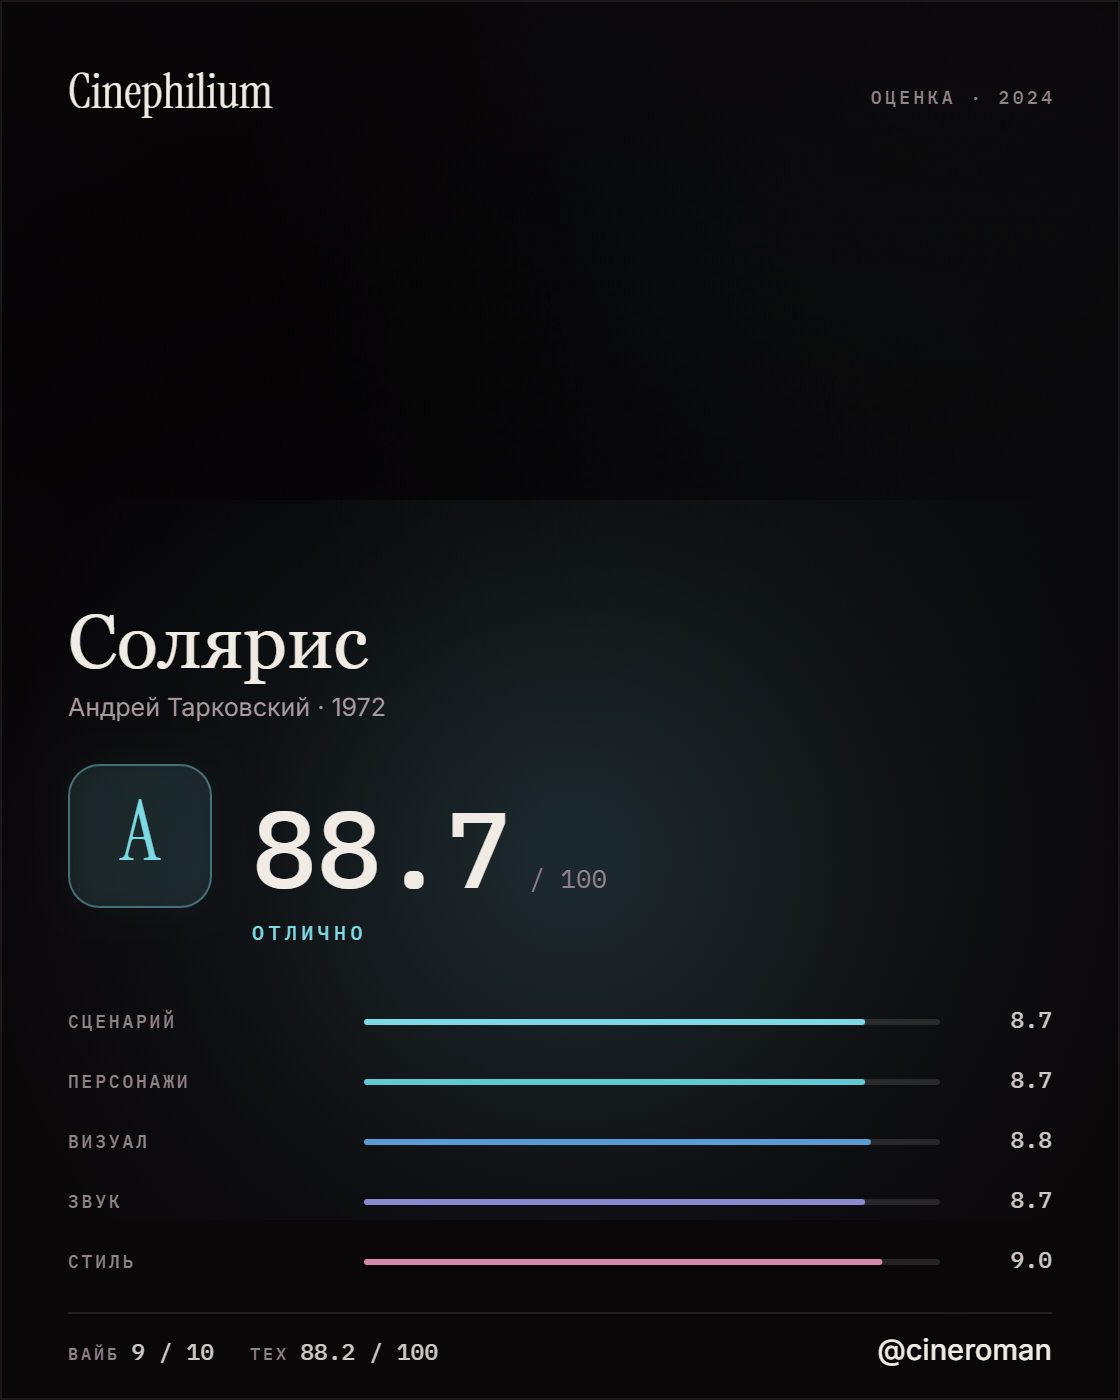
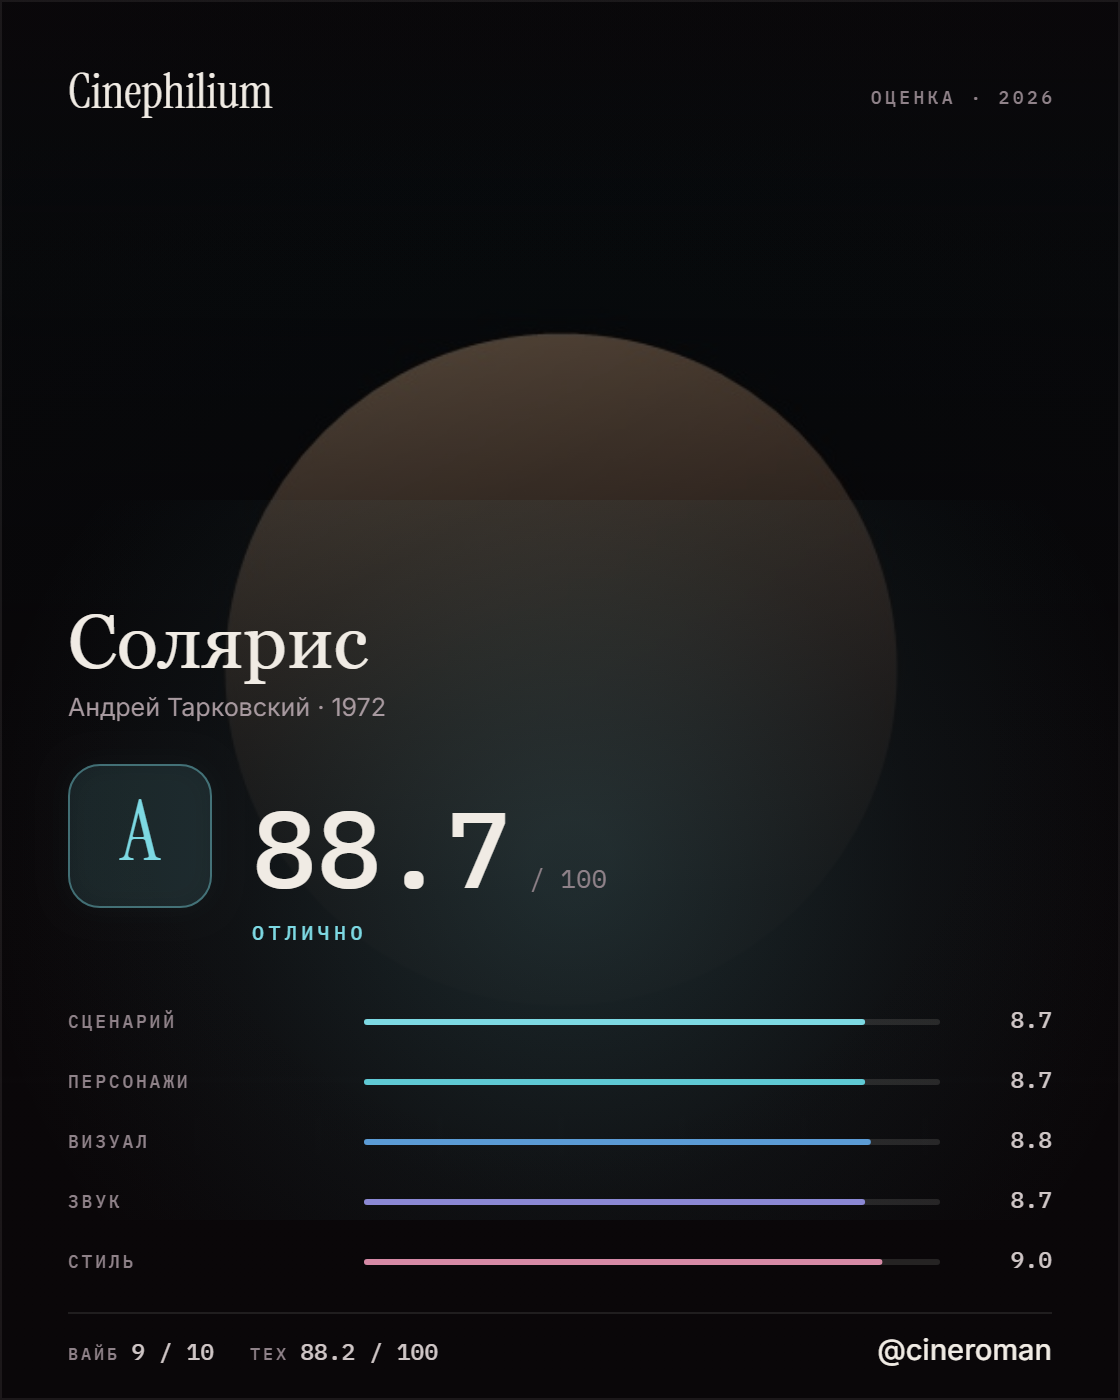
feat: постер в карточке оценки и вход из панели
- фон карточки — постер фильма (backdrop запасной), затемнение и скрим
- «Карточка оценки» доступна из панели для сохранённых full-оценок
- документация 4.12.0: AGENT_CONTEXT, DESIGN_HANDOFF, CHANGELOG
- скриншоты share-card-1120/390 обновлены

Changed region(s): [[0.1875, 0.215, 0.8125, 0.4914]]

diff --git a/src/pages/FilmPage/components/ShareCard/shareCardRenderer.js b/src/pages/FilmPage/components/ShareCard/shareCardRenderer.js
@@ -85,7 +85,9 @@ export function buildShareCardModel({ film, rating, payload, user }) {
   if (film?.director) bylineParts.push(film.director);
   if (film?.year) bylineParts.push(String(film.year));
 
-  const backdropSource = film?.backdrop || film?.poster || '';
+  // DECISION: на фоне — постер (узнаваемая афиша), а не широкий backdrop:
+  // в 4:5 он читается как обложка, а backdrop остаётся запасным вариантом.
+  const backdropSource = film?.poster || film?.backdrop || '';
 
   return {
     title: film?.title || 'Без названия',
@@ -258,7 +260,7 @@ function paintBackground(ctx, image, gradeColor) {
   if (image) {
     ctx.save();
     if ('filter' in ctx) {
-      ctx.filter = 'saturate(0.6) brightness(0.7) contrast(1.03)';
+      ctx.filter = 'saturate(0.62) brightness(0.62) contrast(1.04)';
     }
     drawCover(ctx, image);
     ctx.restore();
@@ -271,14 +273,15 @@ function paintBackground(ctx, image, gradeColor) {
     ctx.fillRect(0, 0, CARD_WIDTH, CARD_HEIGHT);
   }
 
-  // Основной затемняющий градиент: верх фото виден, низ уходит в void.
+  // Основной затемняющий градиент: верх постера виден, середина и низ уходят
+  // в void — под текстом нужен запас контраста даже для светлой афиши.
   const scrim = ctx.createLinearGradient(0, 0, 0, CARD_HEIGHT);
-  scrim.addColorStop(0, 'rgba(10, 7, 9, 0.42)');
-  scrim.addColorStop(0.12, 'rgba(10, 7, 9, 0.18)');
-  scrim.addColorStop(0.34, 'rgba(10, 7, 9, 0.42)');
-  scrim.addColorStop(0.52, 'rgba(10, 7, 9, 0.74)');
-  scrim.addColorStop(0.64, 'rgba(10, 7, 9, 0.92)');
-  scrim.addColorStop(0.78, 'rgba(10, 7, 9, 0.98)');
+  scrim.addColorStop(0, 'rgba(10, 7, 9, 0.55)');
+  scrim.addColorStop(0.12, 'rgba(10, 7, 9, 0.2)');
+  scrim.addColorStop(0.34, 'rgba(10, 7, 9, 0.55)');
+  scrim.addColorStop(0.52, 'rgba(10, 7, 9, 0.82)');
+  scrim.addColorStop(0.64, 'rgba(10, 7, 9, 0.95)');
+  scrim.addColorStop(0.78, 'rgba(10, 7, 9, 0.99)');
   scrim.addColorStop(1, VOID);
   ctx.fillStyle = scrim;
   ctx.fillRect(0, 0, CARD_WIDTH, CARD_HEIGHT);

diff --git a/src/pages/FilmPage/components/ShareCard/ShareCardModal.jsx b/src/pages/FilmPage/components/ShareCard/ShareCardModal.jsx
@@ -9,7 +9,14 @@ import './ShareCardModal.css';
  * скриншота DOM»: превью и файл — один и тот же data URL. Пока картинка
  * рендерится, показываем скелетон того же размера, чтобы модалка не прыгала.
  */
-export default function ShareCardModal({ film, rating, payload, currentUser, onClose }) {
+export default function ShareCardModal({
+  film,
+  rating,
+  payload,
+  currentUser,
+  justSaved = false,
+  onClose
+}) {
   const [dataUrl, setDataUrl] = useState('');
   const [failed, setFailed] = useState(false);
   const closeRef = useRef(null);
@@ -67,8 +74,10 @@ export default function ShareCardModal({ film, rating, payload, currentUser, onC
         onClick={event => event.stopPropagation()}
       >
         <div className="share-modal__head">
-          <p className="share-modal__kicker">Оценка сохранена</p>
-          <h2 className="share-modal__title" id="shareCardTitle">Карточка готова</h2>
+          <p className="share-modal__kicker">{justSaved ? 'Оценка сохранена' : 'Ваша оценка'}</p>
+          <h2 className="share-modal__title" id="shareCardTitle">
+            {justSaved ? 'Карточка готова' : 'Карточка оценки'}
+          </h2>
           <p className="share-modal__sub">Скачайте PNG и поделитесь впечатлением о фильме.</p>
         </div>
 

diff --git a/src/pages/FilmPage/components/RatingSection/RatingSection.jsx b/src/pages/FilmPage/components/RatingSection/RatingSection.jsx
@@ -78,7 +78,14 @@ export default function RatingSection({
     reloadUsers?.();
     // DECISION: карточка открывается после закрытия модалки оценки (см. эффект
     // ниже), иначе два оверлея на мгновение существуют одновременно.
-    setPendingShare({ rating, payload });
+    setPendingShare({ rating, payload, justSaved: true });
+  };
+
+  // DECISION: карточку можно пересобрать и для уже сохранённой full-оценки —
+  // вход в панели оценки, а не только сразу после сохранения.
+  const openShareCard = () => {
+    if (!userRating || (userRating.completeness || 'full') !== 'full') return;
+    setShareCard({ rating: userRating, payload: null, justSaved: false });
   };
 
   useEffect(() => {
@@ -111,6 +118,7 @@ export default function RatingSection({
         vibeLocked={vibeLocked}
         onCancelVibe={vibe.cancelVibe}
         onOpenCriteria={openCriteria}
+        onShareCard={openShareCard}
         onRequireAuth={requireAuth}
       />
 
@@ -129,6 +137,7 @@ export default function RatingSection({
           film={film}
           rating={shareCard.rating}
           payload={shareCard.payload}
+          justSaved={Boolean(shareCard.justSaved)}
           currentUser={currentUser}
           onClose={() => setShareCard(null)}
         />

diff --git a/src/pages/FilmPage/components/RatingPanel/RatingPanel.jsx b/src/pages/FilmPage/components/RatingPanel/RatingPanel.jsx
@@ -59,10 +59,11 @@ export default function RatingPanel({
   vibeError,
   vibeLocked,
   onOpenCriteria,
+  onShareCard,
   onRequireAuth,
   onCancelVibe
 }) {
-  const isFull = (userRating?.completeness || '') === 'full';
+  const isFull = Boolean(userRating) && (userRating.completeness || 'full') === 'full';
   const hasVibe = Number(vibe) >= 1;
   const hasTechnical = isFull && Number(userRating?.technicalScore) > 0;
 
@@ -185,9 +186,14 @@ export default function RatingPanel({
         )}
 
         {isFull ? (
-          <button type="button" className="rp-cta rp-cta--link" onClick={onOpenCriteria}>
-            Изменить критерии →
-          </button>
+          <div className="rp-actions">
+            <button type="button" className="rp-cta rp-cta--link" onClick={onOpenCriteria}>
+              Изменить критерии →
+            </button>
+            <button type="button" className="rp-cta rp-cta--link" onClick={onShareCard}>
+              Карточка оценки →
+            </button>
+          </div>
         ) : (
           <button
             type="button" className={`rp-cta ${hasVibe ? 'rp-cta--accent' : ''}`}

diff --git a/src/pages/FilmPage/components/RatingPanel/RatingPanel.css b/src/pages/FilmPage/components/RatingPanel/RatingPanel.css
@@ -410,6 +410,15 @@
   color: var(--ink);
 }
 
+/* Full: две ссылки под спектром — изменить критерии и карточка оценки. */
+.rp-actions {
+  display: flex;
+  flex-direction: column;
+  align-items: flex-start;
+  gap: 8px;
+  margin-top: 16px;
+}
+
 .rp-formula {
   min-height: 38px;
   margin-top: 14px;

diff --git a/CHANGELOG.md b/CHANGELOG.md
@@ -1,6 +1,50 @@
-# Changelog — Cinephilium Frontend 4.11.0
+# Changelog — Cinephilium Frontend 4.12.0
 
 **Дата и время среза: 14.11.2026 (Europe/Moscow, UTC+03:00)**
+
+## 4.12.0 — постер в карточке и постоянный вход для сохранённых оценок
+
+**Дата: 14.11.2026.**
+
+### Смысл
+
+Карточка оценки выглядела как градиентная заглушка, хотя у фильма есть постер.
+Кроме того, скачать её можно было только сразу после сохранения. В 4.12 фон
+карточки — постер фильма (как в референсе), а вход в карточку остаётся у любой
+сохранённой полной оценки: из панели оценки рядом с «Изменить критерии».
+
+### Что изменено
+
+- `shareCardRenderer.js`: фон — `film.poster`, запасной `film.backdrop`;
+  затемнение `brightness(.62)`, скрим от 0.55 сверху до VOID внизу, верхний
+  фокус кропа 0.28. Горизонтальный `textGuard` не используется — давал
+  видимую границу.
+- `RatingPanel.jsx/.css`: проп `onShareCard`; у full-оценки `.rp-actions` с
+  двумя ссылками — «Изменить критерии →» и «Карточка оценки →».
+- `RatingSection.jsx`: `openShareCard()` для сохранённой оценки; после save
+  карточка открывается с `justSaved: true`, из панели — `justSaved: false`.
+- `ShareCardModal.jsx`: заголовок зависит от входа — «Карточка готова» после
+  сохранения / «Карточка оценки» для сохранённой.
+- Старые full-оценки без поля `completeness` считаются полными:
+  `(completeness || 'full') === 'full'`.
+
+### Зафиксированные решения
+
+- Постер первичнее backdrop: он узнаваемее в 4:5, backdrop — запасной.
+- В карточку не подставляются фейковые фильм/ник; ник — только
+  `currentUser.nickname`.
+- Новых зависимостей и бэкенд-правок не нужно: постер идёт через существующий
+  `/api/tmdb-image` (CORS покрыт глобальным middleware), fallback без фото и
+  при tainted canvas остаётся.
+- Карточка по-прежнему только для full; vibe-only её не вызывает.
+
+### Проверка
+
+`npm run build` — Compiled successfully, ≈133.28 kB JS / 23.11 kB CSS gzip.
+Скриншоты: `screenshots/film-redesign/share-card-1120.png` (постер),
+`share-card-390.png`; панель с двумя ссылками проверена на fixture с
+full-оценкой. Живой сценарий POST /ratings локально не прогнан — бэкенд и
+авторизация недоступны.
 
 ## 4.11.0 — форма оценки, кастомные списки, шеринг-карточка и тач-фокус
 
@@ -48,7 +92,7 @@
 
 `npm run build` — Compiled successfully, ≈133.15 kB JS / 23.1 kB CSS gzip.
 Скриншоты: `screenshots/film-redesign/rating-form-1440.png`,
-`rating-form-390.png`, `share-card-1120.png`, `share-card-1440.png`,
+`rating-form-390.png`, `share-card-1120.png`,
 `share-card-390.png`. CDP 390×844 с touch: тап по селекту без синего кольца,
 список открывается. Живой сценарий сохранения (POST /ratings) локально не
 прогнан — бэкенд и авторизация недоступны.

diff --git a/DESIGN_HANDOFF.md b/DESIGN_HANDOFF.md
@@ -369,14 +369,16 @@ dt mono 9.5/.11em uppercase ink-faint, dd Inter 13.5/1.55.
 
 ### Шеринг-карточка
 
-- `ShareCardModal` открывается после full-save: `.share-modal` 640,
-  max-height 92vh, шапка, `.share-card-frame` 4:5, футер «Закрыть» /
-  «Скачать PNG».
+- `ShareCardModal` открывается после full-save и из панели оценки (у
+  сохранённой full-оценки в `.rp-actions` — «Изменить критерии» и «Карточка
+  оценки»): `.share-modal` 640, max-height 92vh, шапка, `.share-card-frame`
+  4:5, футер «Закрыть» / «Скачать PNG».
 - Canvas 560×700 @2× (1120×1400): бренд Instrument Serif 24 без трёх кружков,
   eyebrow mono 9, название 38/34/30 (кириллица — Georgia, как h1 на сайте),
   byline, плитка грейда 72, балл 54, 5 блоков, футер с вайб/тех и ником 14.5.
-- Фон — backdrop через `getPosterUrl(..., 'w780')` + скрим; без фото —
-  градиент; tainted canvas — перерисовка без фото.
+- Фон — постер (`film.poster`, запасной `film.backdrop`) через
+  `getPosterUrl(..., 'w780')`, фильтр `brightness(.62)`, скрим от 0.55 сверху
+  до VOID внизу; без фото — градиент; tainted canvas — перерисовка без фото.
 
 ### Тач и фокус
 
@@ -433,7 +435,7 @@ dt mono 9.5/.11em uppercase ink-faint, dd Inter 13.5/1.55.
 - Показывать на тач системный focus-ring/синюю подсветку и включать
   overscroll-свечение внутри модалок/списков.
 - Делать шеринг-карточку для vibe-only или подставлять в неё фейковые
-  фильм/ник.
+  фильм/ник; подменять постер на «похожую» картинку.
 
 ---
 
@@ -453,11 +455,11 @@ dt mono 9.5/.11em uppercase ink-faint, dd Inter 13.5/1.55.
 ## 14. Проверка и артефакты
 
 - `npm run build` — `Compiled successfully`.
-- CSS bundle ≈ 23.1 kB gzip, JS ≈ 133 kB gzip.
+- CSS bundle ≈ 23.1 kB gzip, JS ≈ 133.3 kB gzip.
 - Скриншоты: `screenshots/film-redesign/`:
   `before-after.png`, `top.png`, `feed.png`, `modal.png`, `modal-bottom.png`,
   `rating-form-1440.png`, `rating-form-390.png`, `share-card-1120.png`,
-  `share-card-1440.png`, `share-card-390.png`.
+  `share-card-390.png` (карточка с постером, экспорт 1120×1400 и мобилка).
 - Скриншоты сняты с production-сборки на mock API; шрифты Inter/IBM Plex Mono
   на кадрах настоящие. Мобильные — через CDP `Emulation.setDeviceMetricsOverride`
   (390×844, touch): проверен тап по `CustomSelect` без синего кольца.
